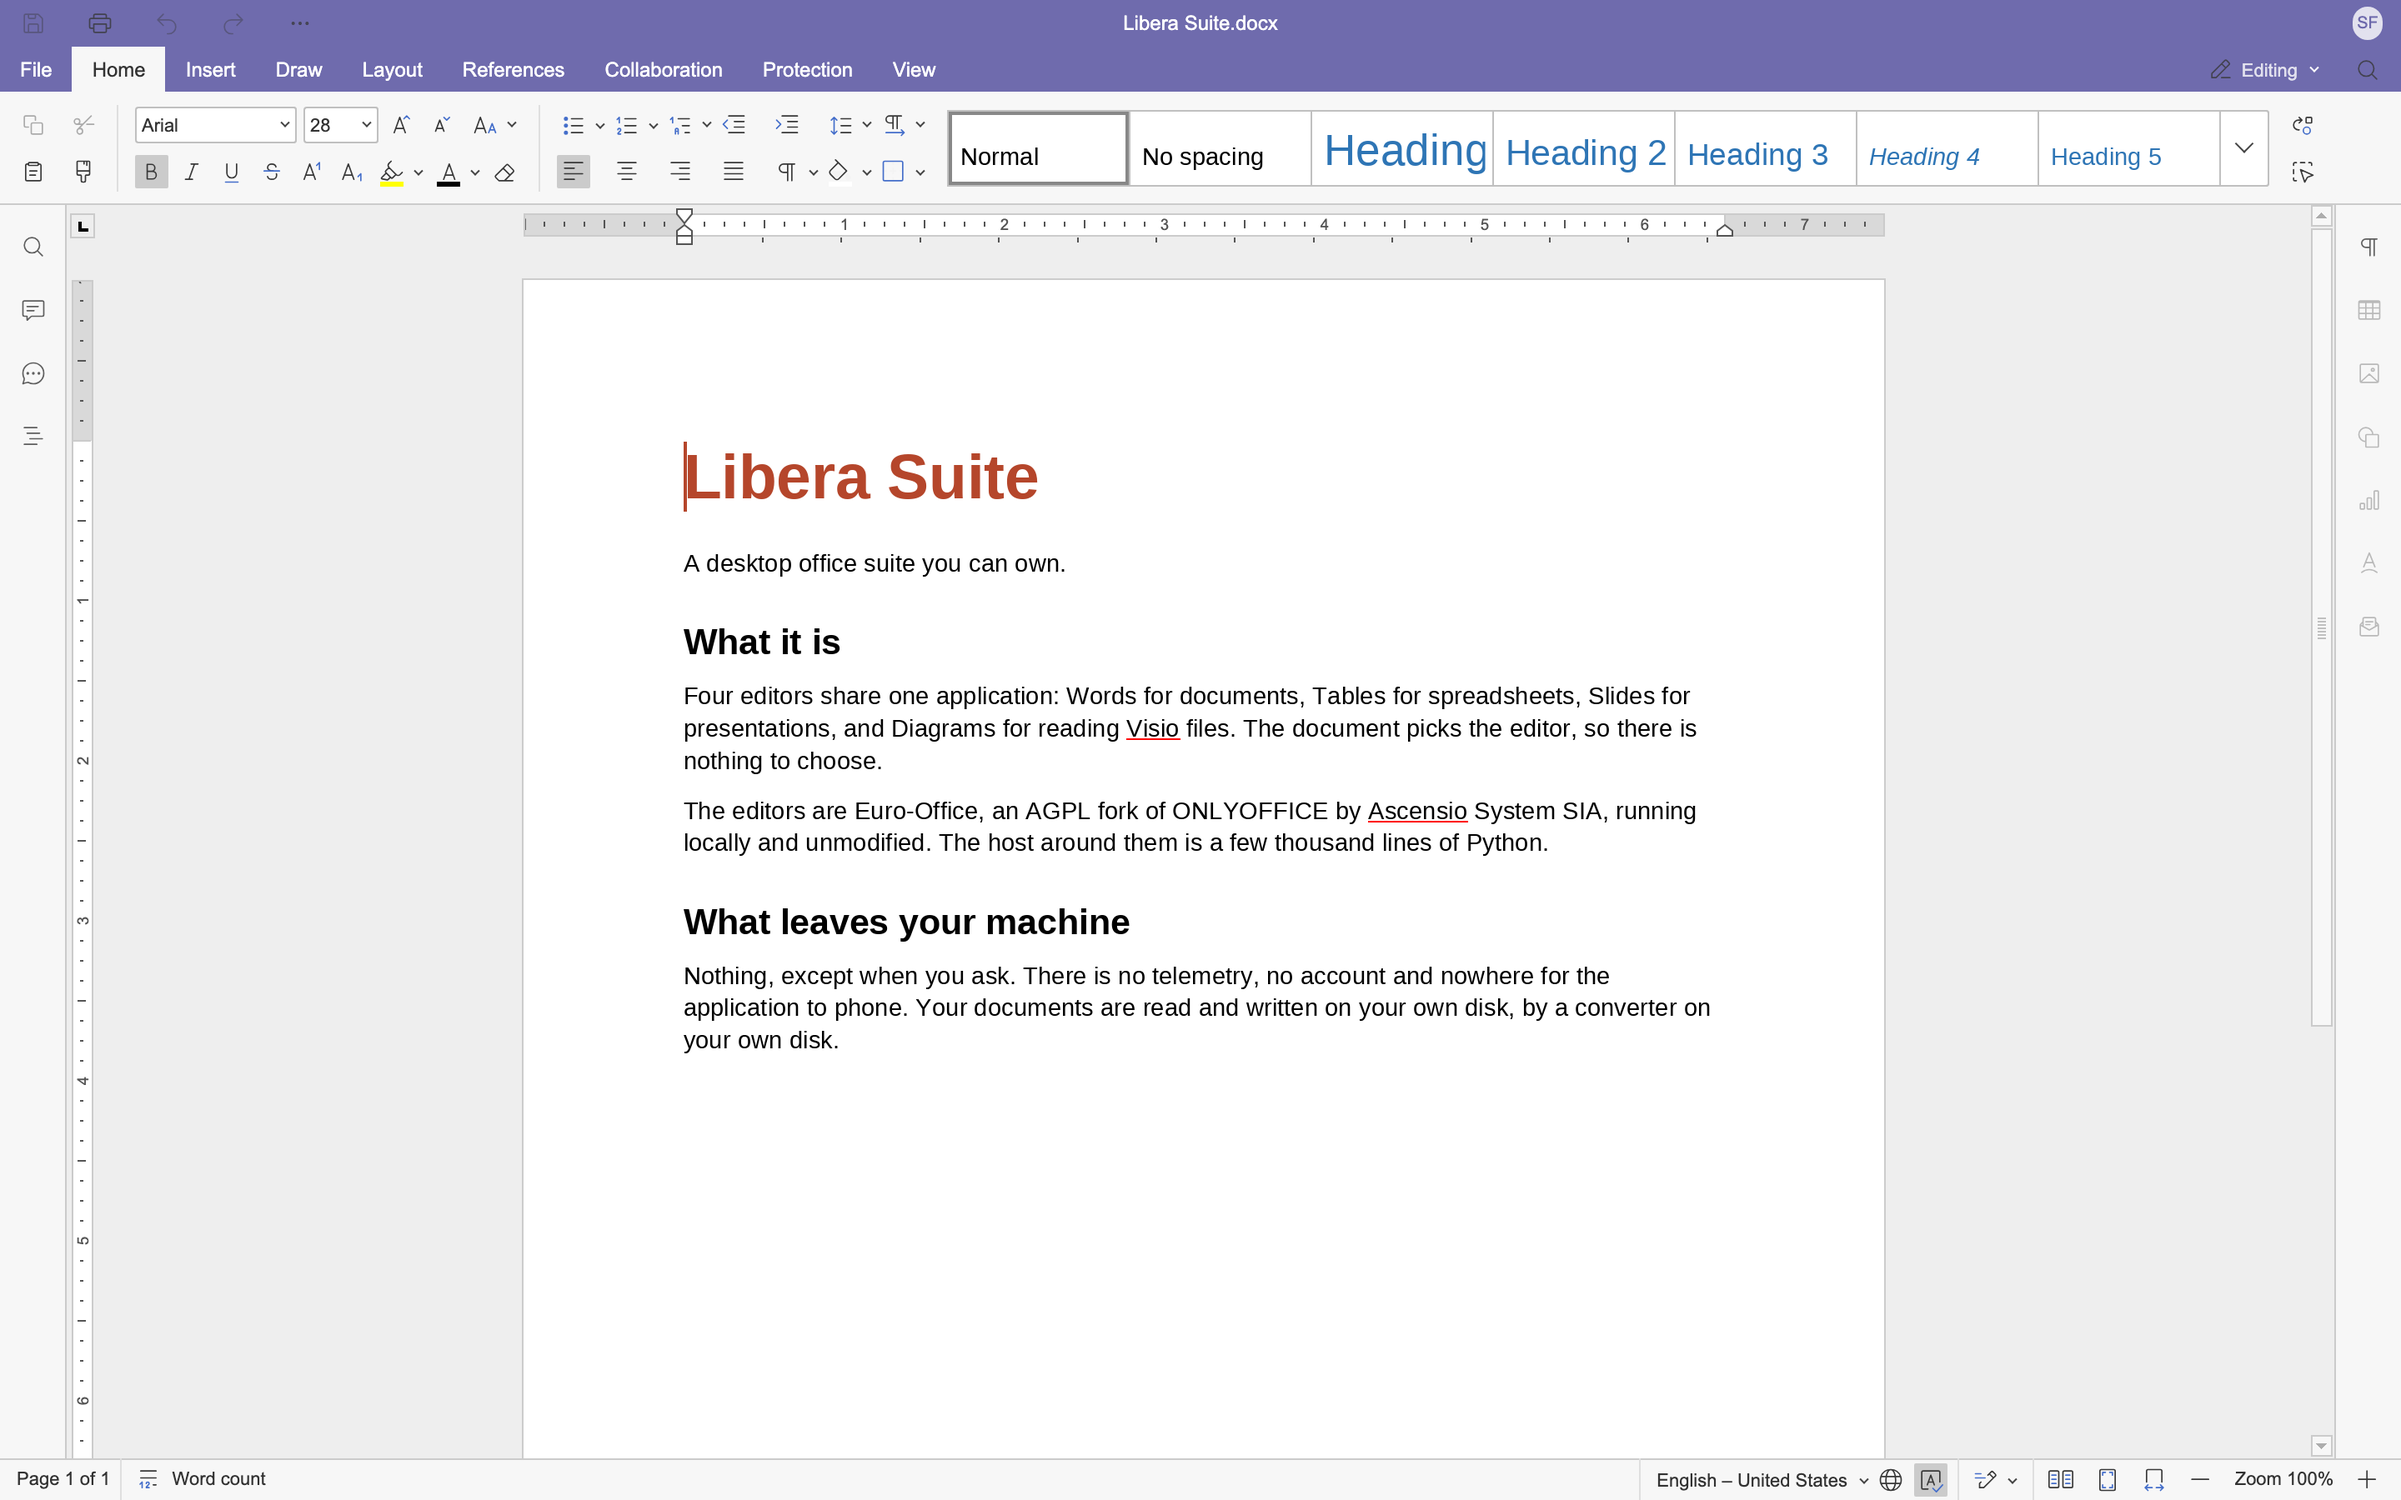
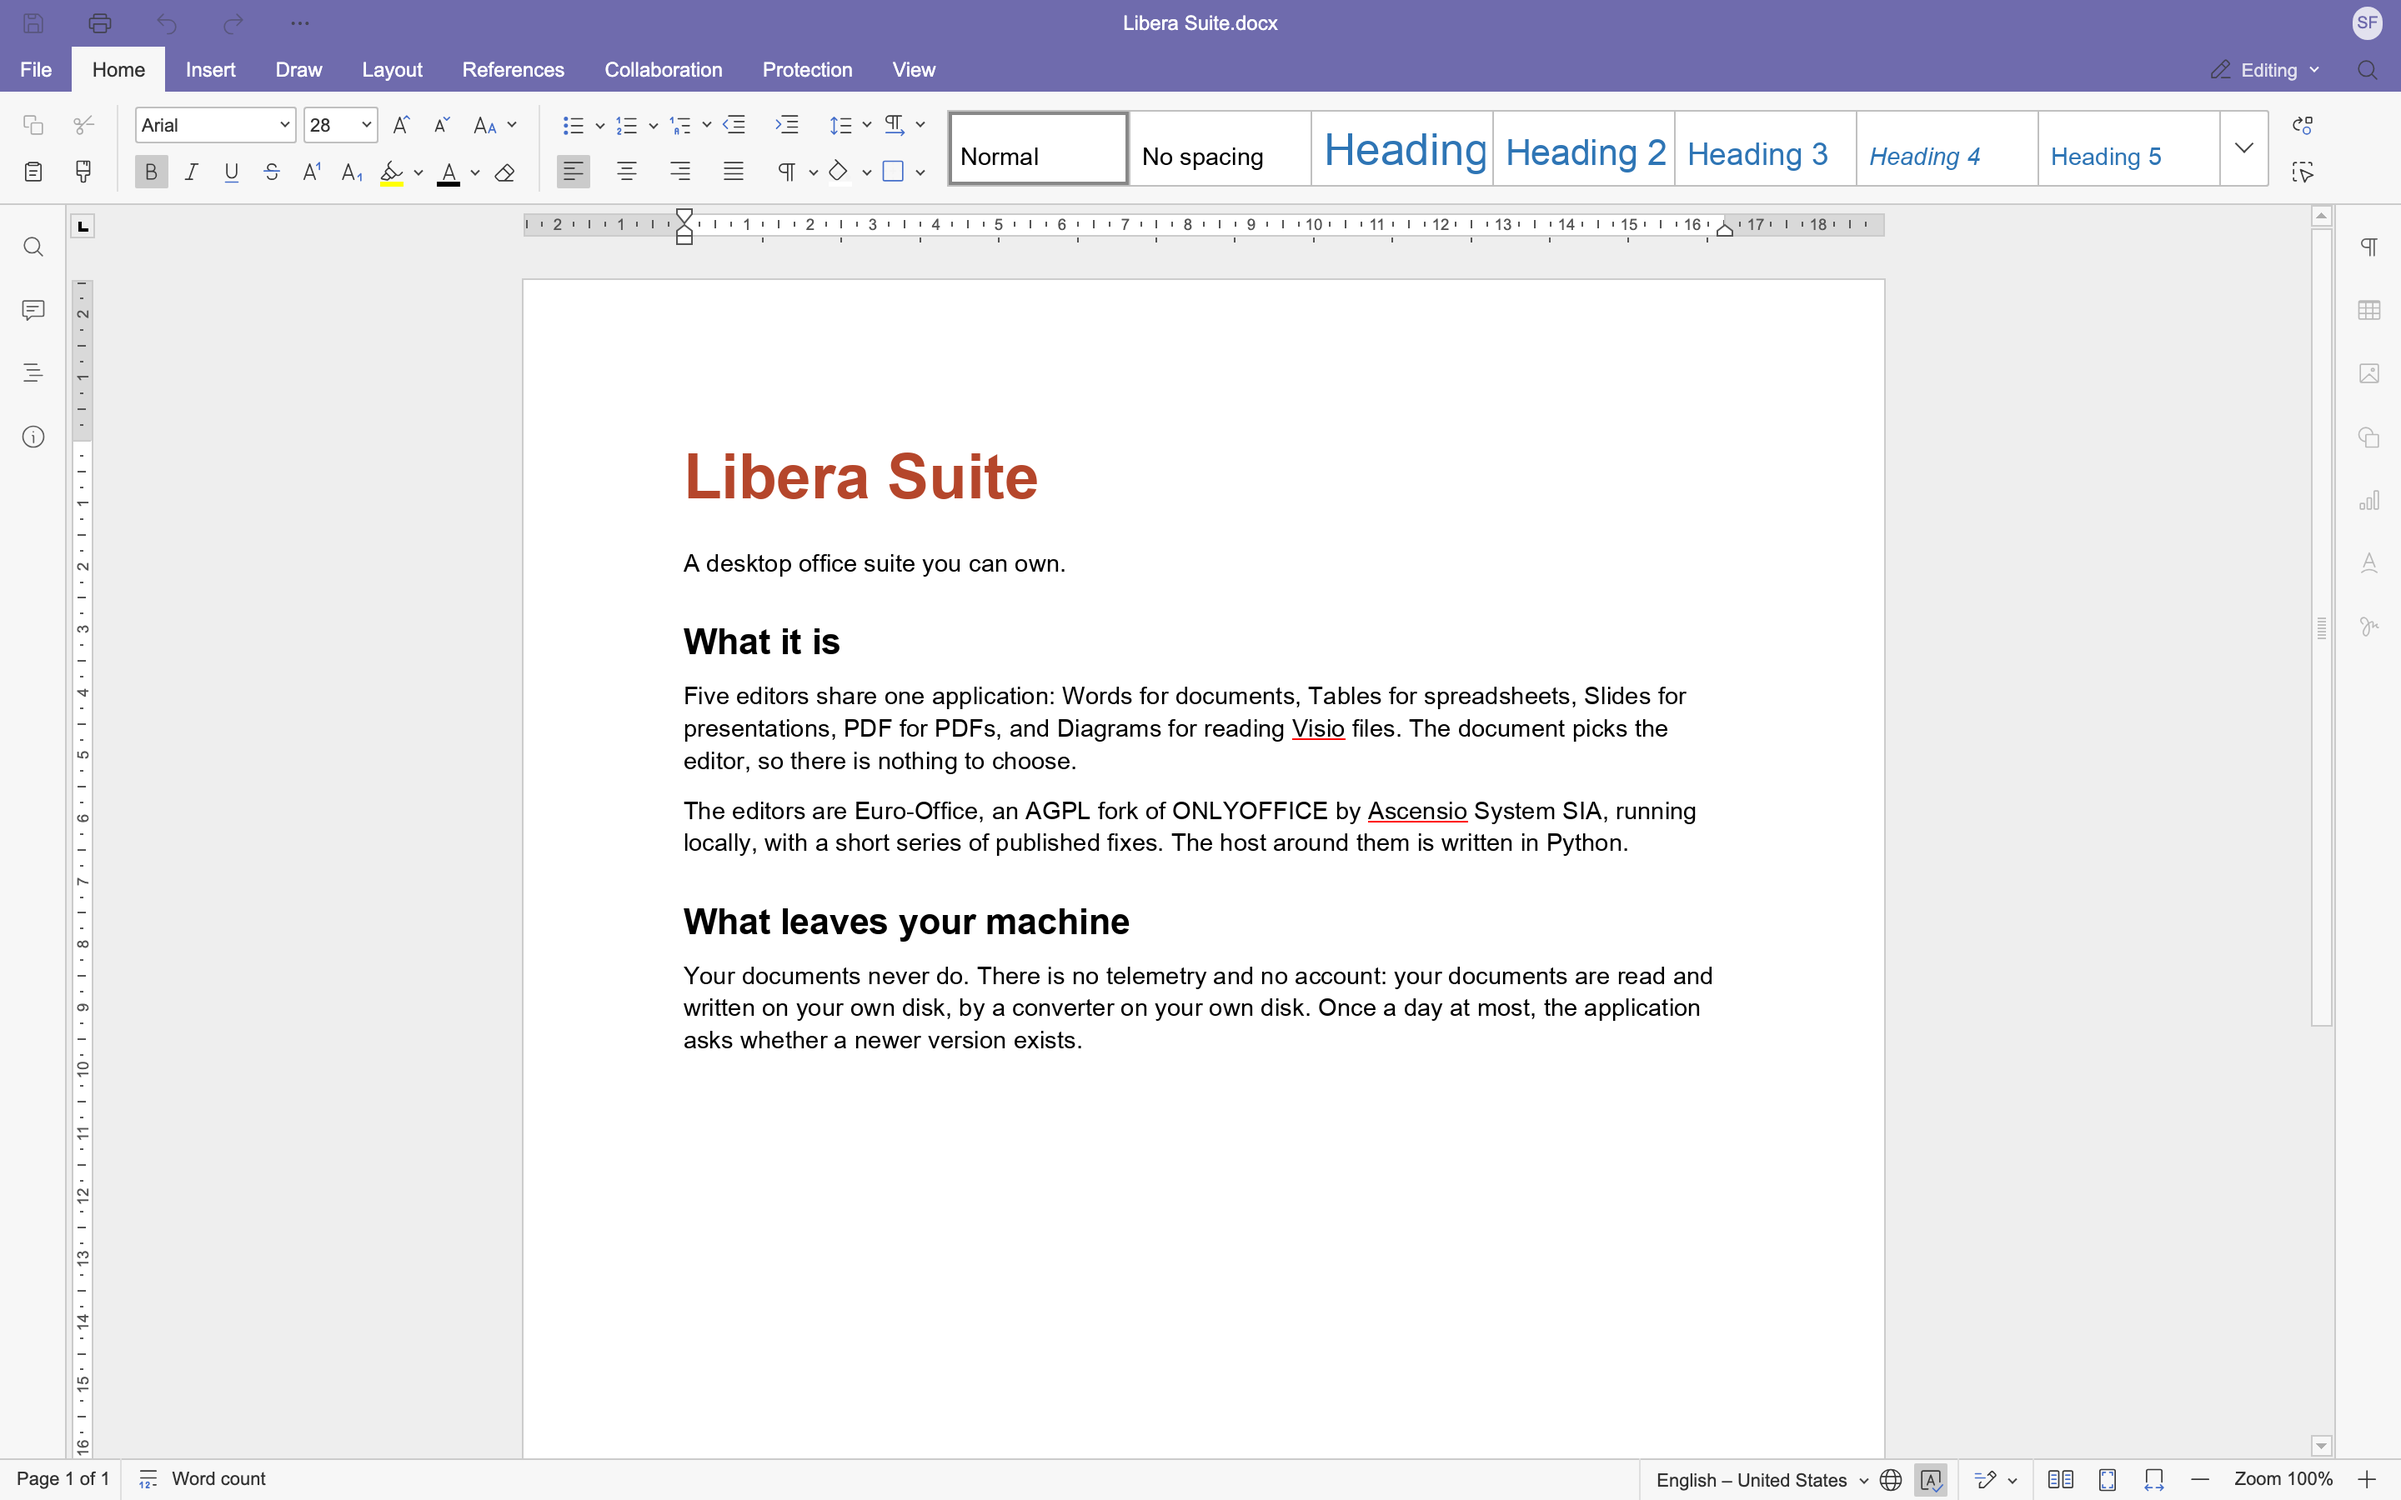
docs: refresh the README and the Words screenshot for 0.7

diff --git a/docs/shots.py b/docs/shots.py
@@ -60,19 +60,20 @@ A desktop office suite you can own.
 
 ## What it is
 
-Four editors share one application: Words for documents, Tables for
-spreadsheets, Slides for presentations, and Diagrams for reading Visio files.
-The document picks the editor, so there is nothing to choose.
+Five editors share one application: Words for documents, Tables for
+spreadsheets, Slides for presentations, PDF for PDFs, and Diagrams for
+reading Visio files. The document picks the editor, so there is nothing to
+choose.
 
 The editors are Euro-Office, an AGPL fork of ONLYOFFICE by Ascensio System
-SIA, running locally and unmodified. The host around them is a few thousand
-lines of Python.
+SIA, running locally, with a short series of published fixes. The host around
+them is written in Python.
 
 ## What leaves your machine
 
-Nothing, except when you ask. There is no telemetry, no account and nowhere
-for the application to phone. Your documents are read and written on your own
-disk, by a converter on your own disk.
+Your documents never do. There is no telemetry and no account: your documents
+are read and written on your own disk, by a converter on your own disk. Once a
+day at most, the application asks whether a newer version exists.
 """
 RUNS = {  # w:sz is half-points
     "title": f'<w:b/><w:sz w:val="56"/><w:color w:val="{SUITE}"/>',

diff --git a/README.md b/README.md
@@ -2,18 +2,19 @@
 
 **A desktop office suite you can own.** Libera Suite opens the documents other people send you (`.docx`, `.xlsx`, `.pptx`, ODF), edits them on your machine and saves them back. It runs on your own computer, with no account to create and nothing in it that phones home.
 
-Four editors share one application. The file picks the editor, so there is nothing to choose.
+Five editors share one application. The file picks the editor, so there is nothing to choose.
 
 | | |
 | :--- | :--- |
 | **Libera Words** | `.docx` `.odt` `.rtf` `.txt` `.md` |
 | **Libera Tables** | `.xlsx` `.ods` `.csv` |
 | **Libera Slides** | `.pptx` `.odp` |
+| **Libera PDF** | `.pdf`: comment, fill in, rearrange |
 | **Libera Diagrams** | opens `.vsdx` to read |
 
 ![Libera Words, with a document open: the editor's toolbar in the Libera Words purple, and a laid-out page below it.](https://docs.liberasuite.eu/en/assets/words.png)
 
-Abilian builds the host as free software under the Apache License 2.0. The editors inside it come from [Euro-Office](https://github.com/Euro-Office) (itself an AGPL fork of ONLYOFFICE by Ascensio System SIA), running locally, with the document engine unmodified: our patch queue against them makes them build on every platform, brands them, sets a few of the editor's options, and fixes the converter.
+Abilian builds the host as free software under the Apache License 2.0. The editors inside it come from [Euro-Office](https://github.com/Euro-Office) (itself an AGPL fork of ONLYOFFICE by Ascensio System SIA), running locally, with a short patch queue of our own: it makes them build on every platform, brands them, sets a few of the editor's options, and fixes bugs, most of them in the converter.
 
 ## Using it
 
@@ -26,7 +27,7 @@ libera                    # the start window: new, open, recent
 
 ![The start window, with a New tile for each of Document, Spreadsheet and Presentation, an Open button, and a Recent list of three documents.](https://docs.liberasuite.eu/en/assets/start.png)
 
-[What works today](https://docs.liberasuite.eu/en/main/status/) sets out the full list with its gaps. It covers editing, saving and exporting, with PDF in the Save As popup. It also covers blank documents of all four kinds, images, printing, spell check in six languages, crash recovery and a Recent list.
+[What works today](https://docs.liberasuite.eu/en/main/status/) sets out the full list with its gaps. It covers editing, saving and exporting, with PDF in the Save As popup. It also covers blank documents, images, printing, spell check in six languages, crash recovery and a Recent list.
 
 ```sh
 libera -v FILE            # what it is doing; -vv how; -vvv every request
@@ -42,21 +43,19 @@ We implement it in Python, behind the webview your system already ships. The hos
 
 | | |
 | :--- | :--- |
-| **The payload** | The editors: `sdkjs`, `web-apps`, the `x2t` converter, fonts, dictionaries. Built from upstream sources pinned by SHA, plus our patch queue. ~120 MB, installed out of tree or shipped inside the bundle. |
-| **The host** | `src/libera/`: the loopback HTTP server, the webview, the file dialogs, the menu bar and the converter calls, in about 4,700 lines of Python across 32 modules. All of the desktop application is here. |
+| **The payload** | The editors: `sdkjs`, `web-apps`, the `x2t` converter, fonts, dictionaries. Built from upstream sources pinned by SHA, plus our patch queue. Two Python packages, `libera-core` and `libera-web`, about 100 MB to download, or inside the bundle. |
+| **The host** | `src/libera/`: the loopback HTTP server, the webview, the file dialogs, the menu bar and the converter calls, in about 12,000 lines of Python across 60 modules. All of the desktop application is here. |
 | **The bridge** | Three small JavaScript files, spliced into the `<head>` of every page the host serves. Our code and theirs never share a file. |
 
-Five thousand lines is a codebase a small team can read in an afternoon and still be maintaining in ten years.
-
-**We do not fork the engine.** The patch queue makes upstream build on macOS and Windows, brands it, sets a few of the editor's options (no upstream helpdesk, no macros), and fixes the converter, mostly for OpenDocument files. **None of it touches the editing engine**, so following upstream means rebasing build configuration, settings and converter fixes. Every release records the exact revisions it was built from, so the corresponding source is a commit plus a series that provably reapplies to it, and `lb payload patches` checks that it still does.
+**We do not fork the engine.** The patch queue makes upstream build on macOS and Windows, brands it, sets a few of the editor's options (no upstream helpdesk, no macros), and fixes bugs: in the converter, mostly for OpenDocument files, and a handful in the editors, among them font substitution and three cross-site scripting holes. Each patch is small and explained, so following upstream means rebasing a short series. Every release records the exact revisions it was built from, so the corresponding source is a commit plus a series that provably reapplies to it, and `lb payload patches` checks that it still does.
 
 Everything we ship, we build. [`build/`](build/README.md) compiles the editors and the native converter from pinned upstream sources, on all three systems, with our patch queue applied.
 
 ## Where it stands
 
-**Early, and running.** All four editors work today on **Windows** 10 and 11 (x64), **Linux** (x86_64 and arm64) and **macOS** (Apple Silicon).
+**Early, and running.** All five editors work today on **Windows** 10 and 11 (x64), **Linux** (x86_64; arm64 stays on 0.4.1) and **macOS** (Apple Silicon).
 
-Tabs, and signing and notarisation on macOS, are still to come. Linux has a menu bar and a launcher entry; neither has keyboard shortcuts, because pywebview's GTK menu has no way to attach them. [What works today](https://docs.liberasuite.eu/en/main/status/) lists the known issues, so an evening spent reporting one is an evening wasted. [The roadmap](https://docs.liberasuite.eu/en/develop/roadmap/) says what comes next and what we have decided against.
+Tabs on Linux and Windows, and signing on macOS and Windows, are still to come. Linux and Windows have a menu bar drawn in the window, which shows few keyboard shortcuts on Linux and none on Windows. [What works today](https://docs.liberasuite.eu/en/main/status/) lists the known issues, so an evening spent reporting one is an evening wasted. [The roadmap](https://docs.liberasuite.eu/en/develop/roadmap/) says what comes next and what we have decided against.
 
 The most useful thing you can send us is a document that renders wrongly, attached. The layout engine is upstream's and mature, so where output is wrong it is far more likely to be our packaging (a font we did not ship, a resource we failed to serve) than the engine.
 
@@ -93,7 +92,7 @@ pipx install --system-site-packages libera        # Linux: the flag is not optio
 uv tool install libera                            # macOS
 ```
 
-> **Linux is x86_64**; arm64 stays on 0.4.1 for now. The converter is built on Ubuntu 22.04 and needs glibc 2.34 and GLIBCXX 3.4.29: Ubuntu 22.04, Debian 12, Fedora 36, RHEL 9 and anything newer, measured in a clean container of each. The Flatpak needs none of that, since the editors inside it run against the GNOME runtime.
+> **Linux is x86_64**; arm64 stays on 0.4.1 for now. The converter is built on Ubuntu 22.04 and needs glibc 2.35: Ubuntu 22.04, Debian 12, Fedora 36 and anything newer, measured in a clean container of each. The Flatpak needs none of that, since the editors inside it run against the GNOME runtime.
 >
 > **macOS is Apple Silicon**, on macOS 14 or later. There is no Intel build.
 
@@ -137,6 +136,6 @@ Libera Suite ships as two artifacts under different licences.
 
 **The host is [Apache-2.0](LICENSE)**: everything in `src/libera/`, which is the whole of this package.
 
-**The editor payload is AGPL-3.0**: Euro-Office plus our patch queue against it (GUI assets are CC-BY-SA-4.0). It arrives as a separate download or inside a Flatpak, never vendored into the wheel.
+**The editor payload is AGPL-3.0**: Euro-Office plus our patch queue against it (GUI assets are CC-BY-SA-4.0). It arrives as two packages of its own, `libera-core` and `libera-web`, or inside a bundle, never vendored into the host's wheel.
 
 [Licence and attribution](https://docs.liberasuite.eu/en/licence/) has the corresponding-source detail: what each release records, and where to fetch it.
